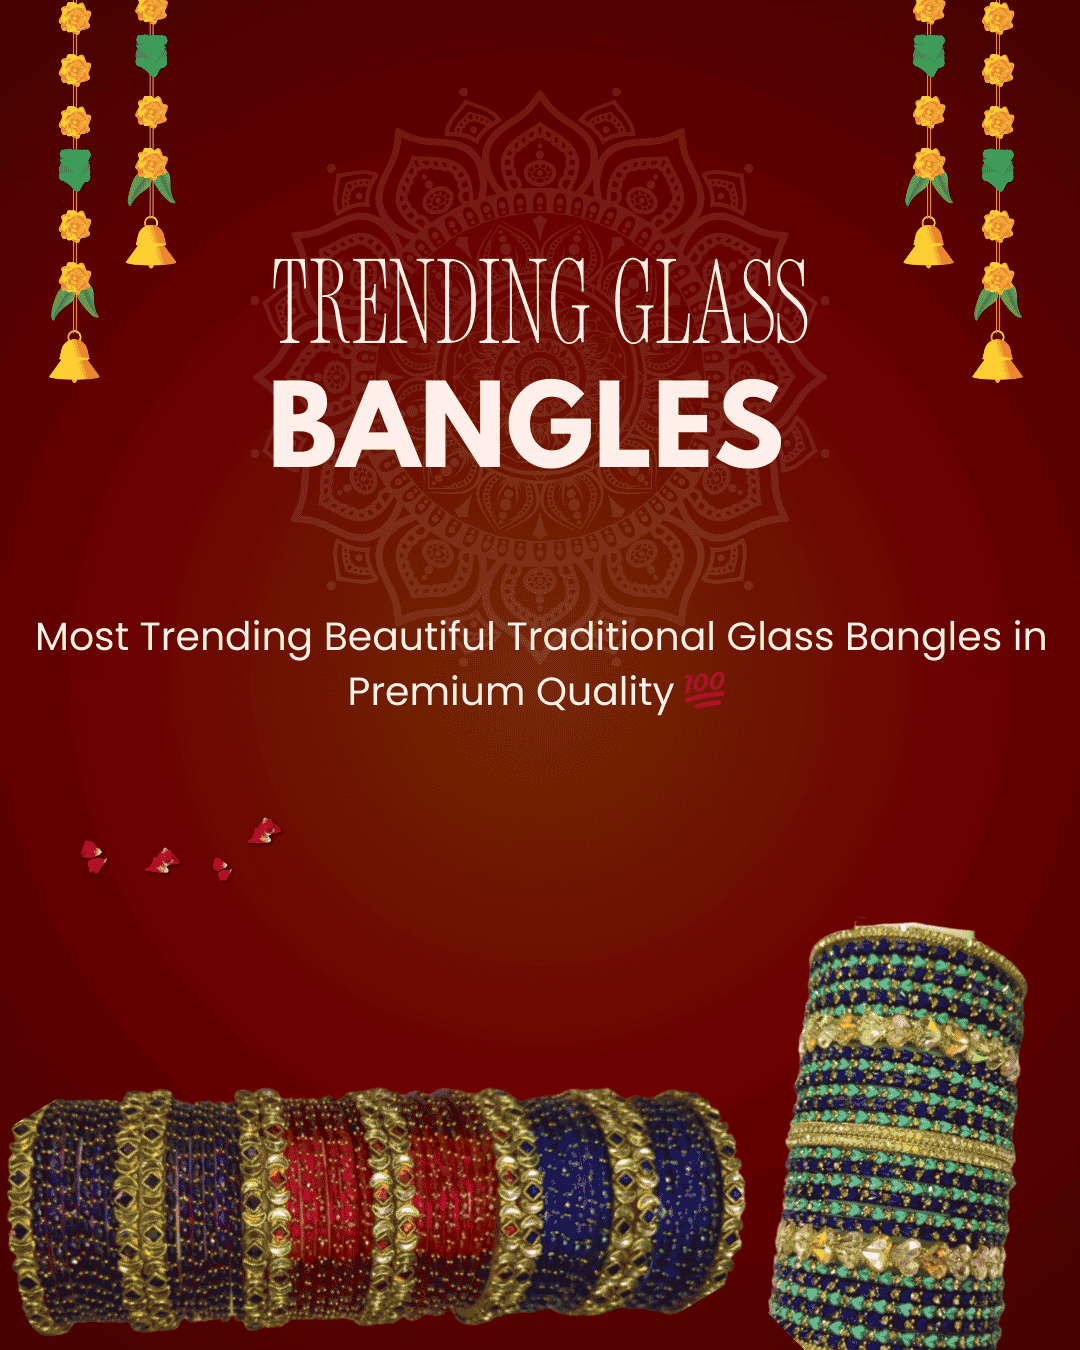
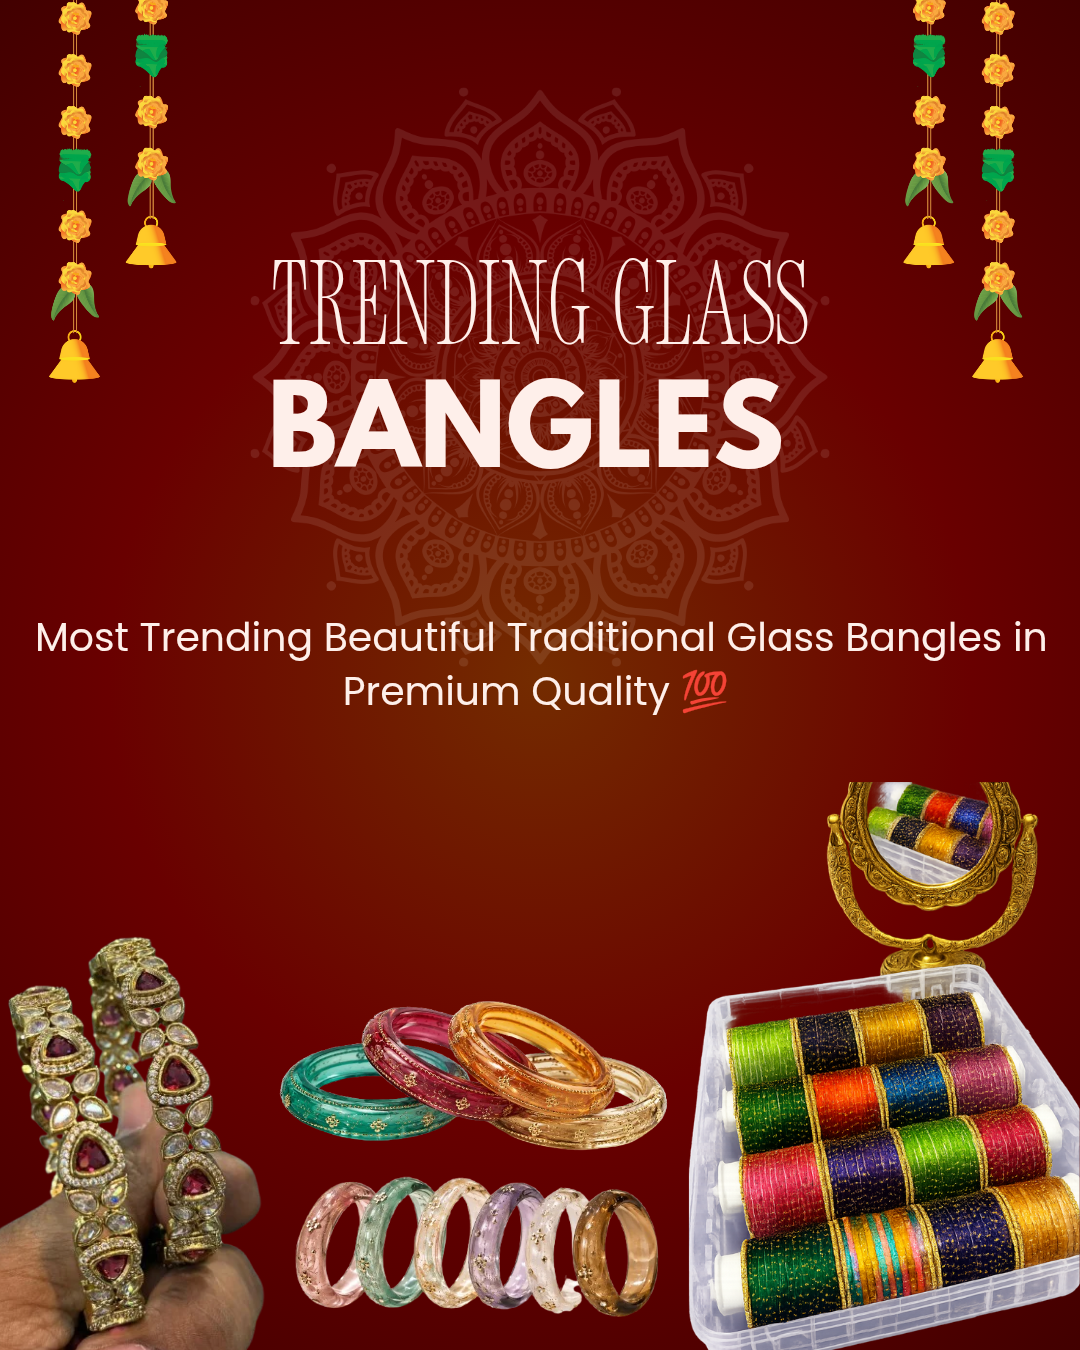
Width Increase image

diff --git a/Frontend/src/Home/Hero.jsx b/Frontend/src/Home/Hero.jsx
@@ -116,14 +116,14 @@ function Hero() {
         </div>
 
         {/* ---------------- Right Side - Image Slider ---------------- */}
-        <div className="w-full md:w-1/2 flex justify-center items-center order-1 md:order-2">
+        <div className="w-full md:w-[60%] flex justify-center items-center order-1 md:order-2">
           <Slider {...settings} className="w-full">
             {slides.map((slide, index) => (
               <div key={index} className="flex justify-center">
                 <img
                   src={slide.image}
                   alt={slide.title}
-                  className="w-full max-w-[400px] sm:max-w-[500px] md:max-w-none h-[350px] md:h-[450px] object-contain"
+                  className="w-full max-w-[500px] sm:max-w-[500px] md:max-w-none h-[350px] md:h-[450px] object-contain"
                 />
               </div>
             ))}